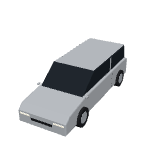
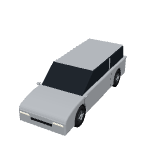
Cars: flowing body lines, wheel arches with dark liners, rounded tyres and five-spoke rims
Claude-Session: https://claude.ai/code/session_015nMawU8UEnxGBrfddyhb2N

diff --git a/frontend/render/modern.ts b/frontend/render/modern.ts
@@ -4089,14 +4089,34 @@ function car(b: Builder, w: number, d: number, h: number, color: string, style: 
   const prof = CAR_PROFILES[style] ?? CAR_PROFILES.hatchback;
   const paint = mat(FINISHES[color] ?? FINISHES.silver, { roughness: 0.35, metalness: 0.3 });
   const dark = mat("#20262d", { roughness: 0.15, metalness: 0.4 });
-  const side = (pts: [number, number][], width: number, m: THREE.Material, bevel: number) => {
-    const shape = new THREE.Shape(pts.map(([t, y]) => new THREE.Vector2(-d / 2 + bevel + t * (d - 2 * bevel), y * h)));
-    const geo = new THREE.ExtrudeGeometry(shape, { depth: width - 2 * bevel, bevelEnabled: bevel > 0, bevelSize: bevel, bevelThickness: bevel, bevelSegments: 2, curveSegments: 4 });
+  const r = Math.min(0.34, h * 0.22);
+  const wheels = [0.17, 0.8].map((t) => -d / 2 + t * d);
+  const side = (pts: [number, number][], width: number, m: THREE.Material, bevel: number, smooth = false, arches = false) => {
+    const p = pts.map(([t, y]) => new THREE.Vector2(-d / 2 + bevel + t * (d - 2 * bevel), y * h));
+    const shape = new THREE.Shape();
+    shape.moveTo(p[0].x, p[0].y);
+    // a flowing upper line through the profile's points (the cabin keeps its corners)
+    if (smooth) shape.splineThru(p.slice(1, -1));
+    else for (const q of p.slice(1, -1)) shape.lineTo(q.x, q.y);
+    shape.lineTo(p[p.length - 1].x, p[p.length - 1].y);
+    if (arches) {
+      // back along the sill, up and over each wheel
+      const yb = p[0].y;
+      const ra = r * 1.32;
+      const phi = Math.asin(Math.max(-1, Math.min(1, (r - yb) / ra)));
+      const dx = ra * Math.cos(phi);
+      for (const zc of [...wheels].sort((a, b) => b - a)) {
+        shape.lineTo(zc + dx, yb);
+        shape.absarc(zc, r, ra, -phi, Math.PI + phi, false);
+      }
+    }
+    shape.lineTo(p[0].x, p[0].y);
+    const geo = new THREE.ExtrudeGeometry(shape, { depth: width - 2 * bevel, bevelEnabled: bevel > 0, bevelSize: bevel, bevelThickness: bevel, bevelSegments: 3, curveSegments: 6 });
     geo.rotateY(-Math.PI / 2);
     geo.translate(width / 2 - bevel, 0, 0);
     b.add(geo, m);
   };
-  side(prof.body, w * 0.93, paint, 0.04);
+  side(prof.body, w * 0.93, paint, 0.05, style !== "van", true);
   side(prof.cabin, w * (style === "van" ? 0.975 : 0.84), dark, 0.03);
   if (style !== "van") {
     // the roof over the cabin's top edge
@@ -4104,13 +4124,21 @@ function car(b: Builder, w: number, d: number, h: number, color: string, style: 
     const len = (c[0] - a[0]) * d;
     b.box(w * 0.82, 0.04, len, 0, Math.max(a[1], c[1]) * h - 0.005, -d / 2 + ((a[0] + c[0]) / 2) * d, paint, 0.02);
   }
-  const r = Math.min(0.34, h * 0.22);
-  for (const t of [0.17, 0.8])
+  // dark liners in the arches (the body is solid behind them)
+  for (const z of wheels) b.add(new THREE.CylinderGeometry(r * 1.32 - 0.06, r * 1.32 - 0.06, w * 0.9, 24, 1, true).rotateZ(Math.PI / 2), mat("#141518", { roughness: 0.9, side: THREE.DoubleSide }), 0, r, z);
+  for (const z of wheels)
     for (const sx of [-1, 1]) {
-      const x = sx * (w / 2 - 0.1);
-      const z = -d / 2 + t * d;
-      b.add(new THREE.CylinderGeometry(r, r, 0.22, 20), mat(C.black, { roughness: 0.9 }), x, r, z).rotation.z = Math.PI / 2;
-      b.add(new THREE.CylinderGeometry(r * 0.6, r * 0.6, 0.23, 12), mat(C.steel, { metalness: 0.6, roughness: 0.3 }), x, r, z).rotation.z = Math.PI / 2;
+      // the tyre's outside about flush with the body
+      const x = sx * (w * 0.465 - 0.09);
+      // a rounded tyre, a dished rim with five spokes, and the dark arch over it
+      b.add(new THREE.TorusGeometry(r * 0.78, r * 0.24, 10, 28).rotateY(Math.PI / 2), mat(C.black, { roughness: 0.9 }), x, r, z);
+      b.add(new THREE.CylinderGeometry(r * 0.56, r * 0.56, 0.16, 24).rotateZ(Math.PI / 2), mat("#3a3d41", { metalness: 0.5, roughness: 0.4 }), x, r, z);
+      const rim = mat(C.steel, { metalness: 0.7, roughness: 0.25 });
+      for (let k = 0; k < 5; k++) {
+        const a = (k / 5) * Math.PI * 2;
+        b.add(new THREE.BoxGeometry(0.02, r * 0.5, r * 0.12), rim, x + sx * 0.085, r + Math.cos(a) * r * 0.27, z + Math.sin(a) * r * 0.27).rotation.x = -a;
+      }
+      b.add(new THREE.CylinderGeometry(r * 0.14, r * 0.14, 0.02, 12).rotateZ(Math.PI / 2), rim, x + sx * 0.09, r, z);
     }
   const lowFront = prof.body.find(([t]) => t === 1)?.[1] ?? 0.4;
   for (const sx of [-1, 1]) {
